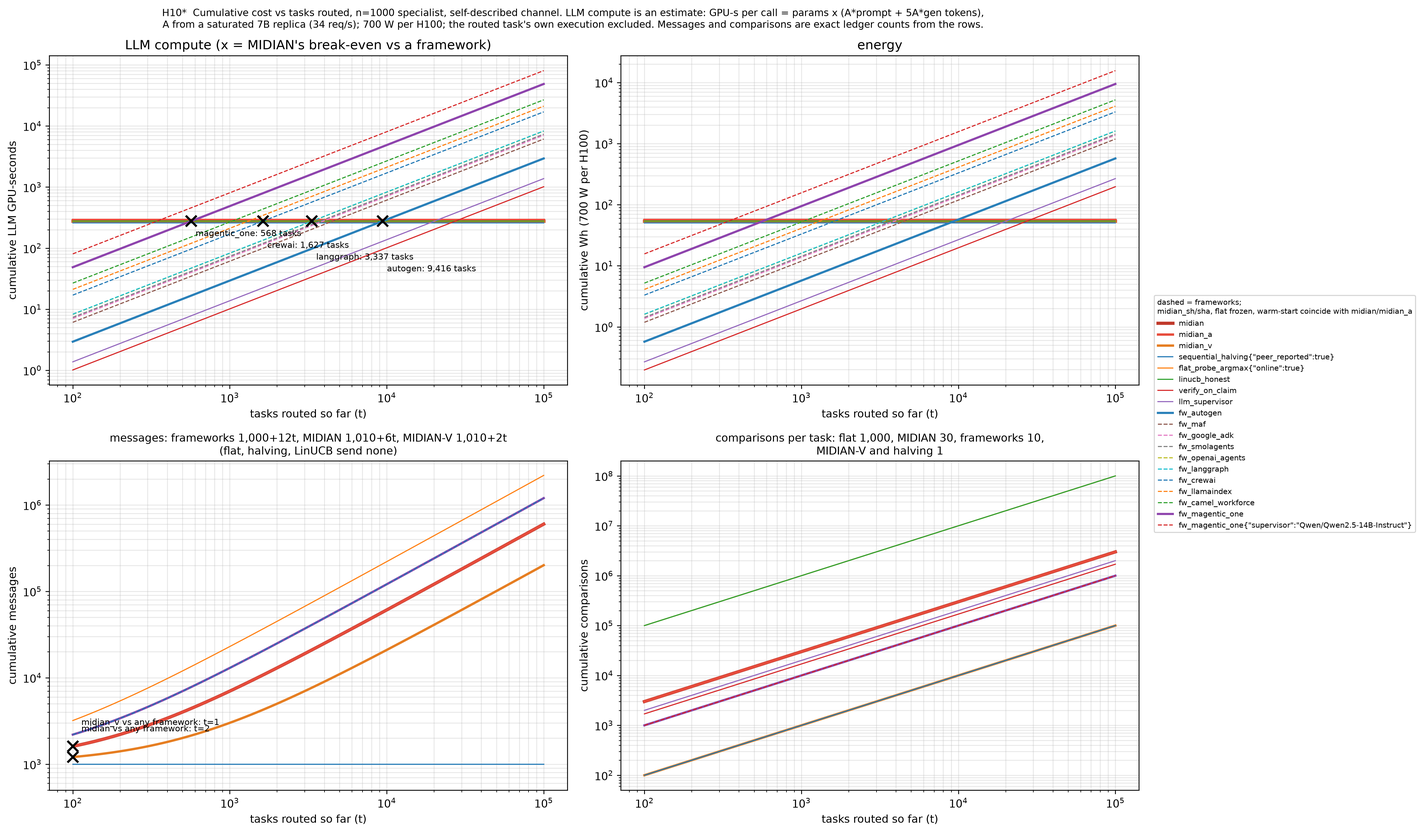
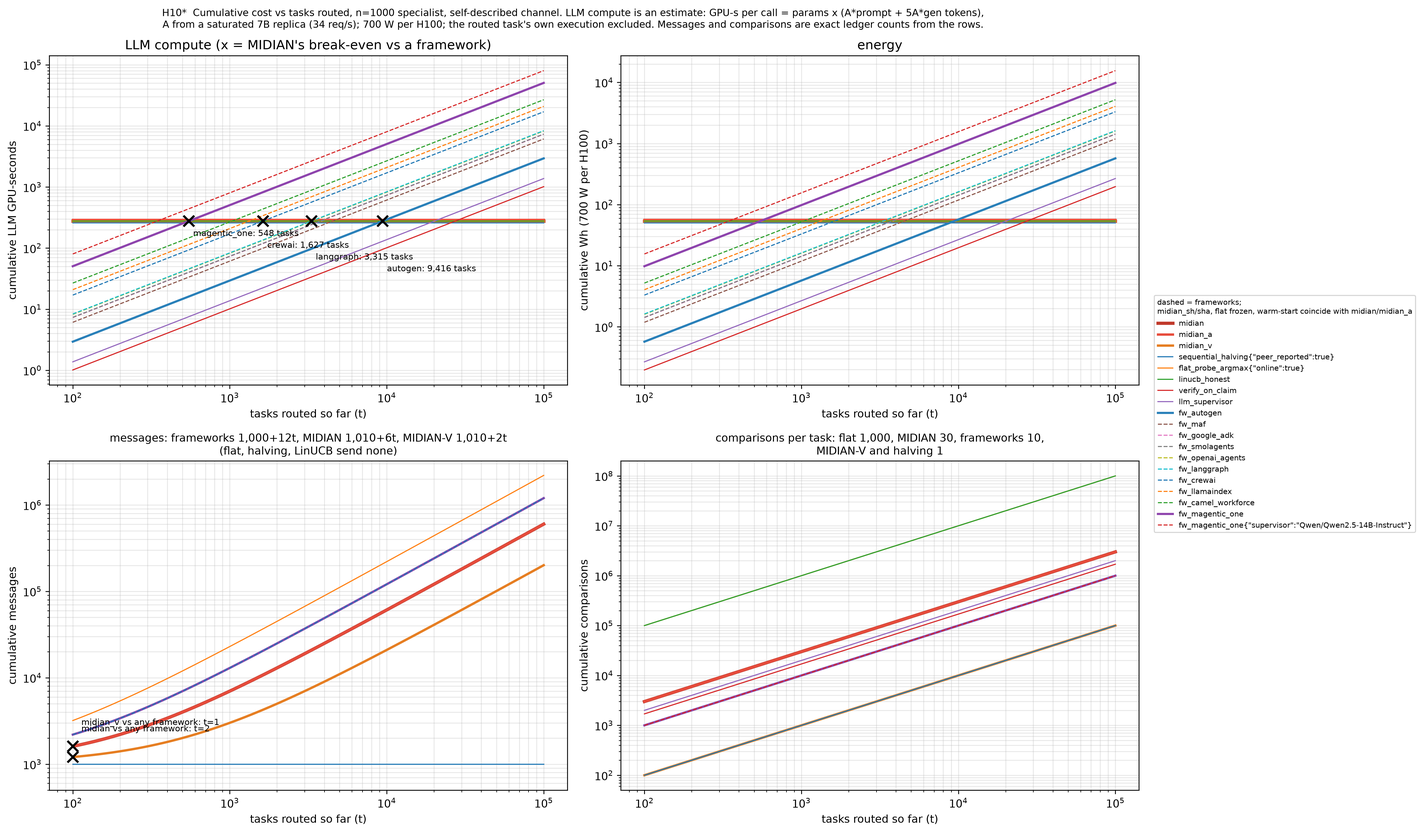
combined cost currencies (joules, critical-path latency): H11, energy section and figure guide updated

diff --git a/scripts/energy.py b/scripts/energy.py
@@ -7,6 +7,7 @@ R = os.environ.get("RTE_DATA", "/n/netscratch/sompolinsky_lab/Lab/rsiegelmann/rt
 REQ_PER_S_7B, SUP_TOK = 34.0, (1900, 65)                          # measured: saturated 1-GPU 7B replica; supervisor prompt/gen tokens
 A = (1 / REQ_PER_S_7B) / (7.0 * (SUP_TOK[0] + 5 * SUP_TOK[1])); B = 5 * A
 WATTS = {"700 W (H100 TDP)": 700, "400 W (typical draw)": 400}
+J_MSG, J_CMP, RTT, T_CMP, PROBE_LAT = 1e-3, 1e-8, 1e-3, 1e-8, 0.3    # J per message, J per comparison, s per hop, s per comparison, s per route-time probe call
 LADDER = yaml.safe_load(open(os.path.dirname(__file__) + "/../configs/models.yaml"))["models"]; P = {m["id"]: m["params_b"] for m in LADDER}
 PROBE_TOK = {"Qwen/Qwen2.5-0.5B-Instruct": (96, 12), "Qwen/Qwen2.5-1.5B-Instruct": (101, 66), "google/gemma-2-2b-it": (115, 15),   # measured per-server lifetime means
              "Qwen/Qwen2.5-3B-Instruct": (294, 86), "Qwen/Qwen2.5-7B-Instruct": (294, 86), "google/gemma-2-9b-it": (158, 33), "Qwen/Qwen2.5-14B-Instruct": (294, 86)}  # 7B/14B: 3B proxy (tool-enabled)
@@ -19,7 +20,7 @@ SUP = call("Qwen/Qwen2.5-7B-Instruct", SUP_TOK)
 def rows(*grids):
     df = pd.concat([pd.DataFrame([json.load(open(f)) for f in glob.glob(f"{R}/{g}/rows.d/*.json")]) for g in grids])
     df = df[(df.declared_source == "self_described") & (df.n == 1000)]; df["m"] = df.method + df.params.str.replace("{}", "")
-    return df.groupby("m")[["build_probes", "probes_per_task", "tasks_per_task", "wall_clock_per_task", "build_messages", "messages_per_task", "build_comparisons", "comparisons_per_task"]].mean()
+    return df.groupby("m")[["build_probes", "probes_per_task", "tasks_per_task", "wall_clock_per_task", "build_messages", "messages_per_task", "build_comparisons", "comparisons_per_task", "hops_per_task"]].mean()
 
 def table(dist="specialist", watts=700):
     c = rows("live_f1_n1000", "variants_f1", "fw_live_n1000"); base = c.loc["fw_autogen", "wall_clock_per_task"]
@@ -32,10 +33,20 @@ def table(dist="specialist", watts=700):
         sup_scale = P["Qwen/Qwen2.5-14B-Instruct"] / 7.0 if "14B" in m else 1.0
         out.append(dict(method=m, build_gpu_s=r.build_probes * probe_cost[dist], per_task_gpu_s=r.probes_per_task * probe_cost[dist] + sup_calls * SUP * sup_scale,
                         exec_gpu_s_per_task=r.tasks_per_task * probe_cost[dist], sup_call_equiv=sup_calls, build_msgs=r.build_messages, msgs_per_task=r.messages_per_task,
-                        build_cmp=r.build_comparisons, cmp_per_task=r.comparisons_per_task))
+                        build_cmp=r.build_comparisons, cmp_per_task=r.comparisons_per_task, sup_latency=(r.wall_clock_per_task if sup_calls else 0.0),
+                        probes_per_task=r.probes_per_task))
     t = pd.DataFrame(out).set_index("method")
     for T in (1_000, 10_000, 100_000): t[f"cum_gpu_s_t{T}"] = t.build_gpu_s + T * t.per_task_gpu_s
     t["cum_Wh_t10000"] = t.cum_gpu_s_t10000 * watts / 3600; t["cum_msgs_t10000"] = t.build_msgs + 10_000 * t.msgs_per_task; t["cum_cmp_t10000"] = t.build_cmp + 10_000 * t.cmp_per_task
+    # (a) one energy currency, joules: LLM call = GPU-s x 700 W; message = 1 RPC ~100 us on a ~10 W core = 1e-3 J (x10 pessimistic column); comparison = 1e-8 J
+    for J_msg, tag in ((J_MSG, ""), (10 * J_MSG, "_pess")):
+        t["build_J" + tag] = t.build_gpu_s * watts + t.build_msgs * J_msg + t.build_cmp * J_CMP
+        t["per_task_J" + tag] = t.per_task_gpu_s * watts + t.msgs_per_task * J_msg + t.cmp_per_task * J_CMP
+        t["J_per_task_t10000" + tag] = t["build_J" + tag] / 10_000 + t["per_task_J" + tag]
+    # (b) critical-path latency per task: sequential message hops at 1 ms RTT (MIDIAN's 2 per level; frameworks 2 + the supervisor call at its
+    #     measured median latency under shared-fleet load; probes at route time ~0.3 s each), comparisons at 10 ns (flat: 1,000 -> 10 us)
+    is_fw = t.index.str.startswith("fw_") | (t.index == "llm_supervisor")
+    t["latency_s"] = np.where(is_fw, 2 * RTT + t.sup_latency, t.msgs_per_task * RTT) + t.cmp_per_task * T_CMP + t.probes_per_task * PROBE_LAT
     return t.sort_values("cum_gpu_s_t10000")
 
 def crossing(t, a, b, build="build_gpu_s", slope="per_task_gpu_s"):
@@ -63,6 +74,16 @@ if __name__ == "__main__":
     md += ["", "MIDIAN's 48,000-probe build by population shape (GPU-s): " + ", ".join(f"{d} {48000 * v:,.0f}" for d, v in probe_cost.items())
            + "; the crossings scale with it (heavy_tail and bimodal cross ~3x sooner).",
            "Reading: against a one-call framework (AutoGen) MIDIAN breaks even after ~9,400 tasks on specialist (~2,900 on heavy_tail), MIDIAN-A after ~9,900; against the multi-call frameworks (CrewAI, LlamaIndex, CAMEL) after 1,000-1,600 tasks; against Magentic-One after ~570 (7B) / ~340 (14B arm). Before the crossing the framework is cheaper; after it, the probe-based methods' cost is flat while every framework's keeps growing linearly."]
+    md += ["", "## Combined currencies (*)", "",
+           f"(a) ENERGY, joules per event: LLM call = GPU-s x 700 W (a 7B supervisor call = {SUP*700:.1f} J; a specialist probe = {probe_cost['specialist']*700:.2f} J); message = one RPC handled in ~100 us on a ~10 W core = {J_MSG:g} J (pessimistic column: {10*J_MSG:g} J); comparison = one float compare = {J_CMP:g} J.",
+           f"(b) LATENCY on the critical path per task: each sequential message hop = {RTT*1e3:.0f} ms RTT (MIDIAN: 2 per tree level = its messages/task; MIDIAN-V 2 ms; frameworks and llm_supervisor: 2 hops + the supervisor call at its measured median latency under shared-fleet load); comparisons {T_CMP*1e9:.0f} ns each (flat's 1,000 = 10 us); a route-time probe call (verify_on_claim) {PROBE_LAT:.1f} s.", "",
+           "| method | J/task at t=10k (build amortised) | J/task, pessimistic messages | of which LLM J/task | messages J/task | comparisons J/task | latency s/task |", "|---|---|---|---|---|---|---|"]
+    for m, r in t.sort_values("J_per_task_t10000").iterrows():
+        md.append(f"| {m} | {r.J_per_task_t10000:,.3f} | {r.J_per_task_t10000_pess:,.3f} | {(r.build_gpu_s/1e4 + r.per_task_gpu_s)*700:,.3f} | {(r.build_msgs/1e4 + r.msgs_per_task)*J_MSG:.4f} | {(r.build_cmp/1e4 + r.cmp_per_task)*J_CMP:.2e} | {r.latency_s:.4f} |")
+    md += ["", "Crossings in joules (tasks after which the probe-based method's cumulative energy falls below the framework's): " + "; ".join(
+           f"{a}: " + ", ".join(f"{b.replace('fw_', '')} {crossing(t, a, b, 'build_J', 'per_task_J'):,.0f}" for b in fws) for a in mids) + ".",
+           "Under any sane weighting the LLM call dominates energy by 3-5 orders of magnitude (20.6 J per supervisor call vs 6e-3 J for MIDIAN's six messages and 3e-7 J for its thirty comparisons per task), so the joule crossings equal the GPU-second crossings to the task; "
+           "messages dominate MIDIAN's latency (6 ms vs 0.3 us of comparisons) while the supervisor call dominates every framework's (0.5-18 s)."]
     open(os.path.dirname(__file__) + "/../RESULTS_energy.md", "w").write("\n".join(md) + "\n")
     T = np.logspace(2, 5, 300); fig, axes = plt.subplots(2, 2, figsize=(15, 11)); axes = axes.ravel()
     show = ["midian", "midian_a", "midian_v", 'sequential_halving{"peer_reported":true}', 'flat_probe_argmax{"online":true}', "linucb_honest", "verify_on_claim", "llm_supervisor"] + fws
@@ -87,3 +108,18 @@ if __name__ == "__main__":
                  "A from a saturated 7B replica (34 req/s); 700 W per H100; the routed task's own execution excluded. Messages and comparisons are exact ledger counts from the rows.", fontsize=9)
     plt.tight_layout(); plt.savefig(os.path.dirname(__file__) + "/../figures/H10_runtime_energy.png", dpi=300, bbox_inches="tight")
     print(t.round(4).to_string()); print({a: {b: round(crossing(t, a, b)) for b in fws} for a in mids})
+    # ---- H11: combined currencies
+    fig2, ax2 = plt.subplots(1, 2, figsize=(15, 6))
+    for m in show:
+        r = t.loc[m]; col, lw = style.get(m, (None, 1.0)); ax2[0].plot(T, r.build_J + T * r.per_task_J, label=m, color=col, lw=lw, ls="-" if not m.startswith("fw_") or m in style else "--")
+    for i, b in enumerate(("fw_magentic_one", "fw_crewai", "fw_autogen")):
+        x = crossing(t, "midian", b, "build_J", "per_task_J"); y = t.loc["midian", "build_J"] + x * t.loc["midian", "per_task_J"]
+        ax2[0].plot([x], [y], "kx", ms=10, mew=2); ax2[0].annotate(f"{b.replace('fw_', '')}: {x:,.0f}", (x, y), textcoords="offset points", xytext=(4, -14 - 11 * i), fontsize=8)
+    ax2[0].set_xscale("log"); ax2[0].set_yscale("log"); ax2[0].set_xlabel("tasks routed so far (t)"); ax2[0].set_ylabel("cumulative joules (LLM + messages + comparisons)"); ax2[0].grid(alpha=.3, which="both")
+    ax2[0].set_title("one energy currency: LLM call = GPU-s x 700 W, message 1e-3 J, comparison 1e-8 J")
+    lat = t.loc[show, "latency_s"].sort_values(); ax2[1].barh(range(len(lat)), lat.values, color=[style.get(m, ("#7f8c8d", 1))[0] or "#7f8c8d" for m in lat.index])
+    ax2[1].set_yticks(range(len(lat))); ax2[1].set_yticklabels(lat.index, fontsize=8); ax2[1].set_xscale("log"); ax2[1].set_xlabel("critical-path latency per task (s)"); ax2[1].grid(axis="x", alpha=.3, which="both")
+    ax2[1].set_title("latency: 1 ms per sequential hop, 10 ns per comparison, supervisor call at measured median")
+    h2, l2 = ax2[0].get_legend_handles_labels(); fig2.legend(h2, l2, loc="center left", bbox_to_anchor=(1.0, 0.5), fontsize=7)
+    fig2.suptitle("H11*  Combined currencies, n=1000 specialist: cumulative joules vs tasks routed (x = MIDIAN's break-even) and per-task critical-path latency", fontsize=10)
+    plt.tight_layout(); fig2.savefig(os.path.dirname(__file__) + "/../figures/H11_joules_latency.png", dpi=300, bbox_inches="tight")

diff --git a/RESULTS_rte_v2.md b/RESULTS_rte_v2.md
@@ -23,7 +23,8 @@ changed; every mechanism added after the first run is a labeled variant.
 | H7 `H7_shortlist_lift.png` | Each framework with its own TF-IDF shortlist vs with MIDIAN-V's verified cohort (r=10, r=5); reference line = MIDIAN-V alone. (Provisional until the verified grids close.) | §1b |
 | H8 `H8_budget_by_channel.png` | Success vs probe budget b ∈ {1, 3, 10}, split by declaration channel (programmatic = upper bound). | §7 |
 | H9 `H9_churn.png` | Success per 100-task block and cumulative probes across churn events (10% / 30% of agents replaced every 200 tasks): MIDIAN's local repair vs halving-rebuild vs halving-stale vs flat online. | §5 |
-| H10 `H10_runtime_energy.png` | Cumulative GPU-seconds and Wh vs tasks routed: probe-based methods start at their build cost and stay flat, frameworks start at zero and grow per task; the crossings are the energy break-even points. Estimate: counts × per-call cost measured on the fleet. | §6b |
+| H11 `H11_joules_latency.png` | Combined currencies: cumulative joules (LLM call 20.6 J, message 1e-3 J, comparison 1e-8 J) with MIDIAN's break-even crossings, and per-task critical-path latency (1 ms per sequential hop + the supervisor call's measured median). | §6b |
+| H10 `H10_runtime_energy.png` | Cumulative GPU-seconds, Wh, messages and comparisons vs tasks routed: probe-based methods start at their build cost and stay flat, frameworks start at zero and grow per task; the crossings are the energy break-even points. Estimate: counts × per-call cost measured on the fleet. | §6b |
 | appendix `A_*.png` | internals_v2 (r × δ × collude × liar, MIDIAN vs MIDIAN-A), learning curve (success − oracle per 100 tasks), framework k-sensitivity, replay mirror, fallback table, UCB/Thompson. | Appendices |
 
 The 2026-09-02 figures A–G (5 seeds, pooled error bars) are kept under `figures/v1/` for the v1 write-up only.
@@ -337,9 +338,9 @@ Supervisor latency (the one wall-clock table; frameworks' calls are never memois
 at n = 1000: AutoGen 0.7 s, CrewAI 0.6, Google ADK 1.0, OpenAI Agents 1.0, LangGraph 1.1, MAF 1.3, smolagents 1.6,
 LlamaIndex 3.1, CAMEL 4.5, Magentic-One 6.8.
 
-## 6b. Runtime and energy (estimate*)
+## 6b. Runtime, energy and combined cost (estimate*)
 
-From `scripts/energy.py` (counts × per-call GPU-seconds measured on the live fleet); cumulative cost vs tasks routed in four currencies, crossings = break-even.
+From `scripts/energy.py` (counts × per-call GPU-seconds measured on the live fleet); cumulative cost vs tasks routed in GPU-s, Wh, messages, comparisons, and two combined currencies (joules, critical-path latency) with stated per-event weights. Figures H10, H11.
 Runtime/energy ESTIMATE (*) per method from LLM-call counts x measured per-call GPU cost.  python scripts/energy.py
 Wall-clock in the rows is not used for probe methods (memo hits). Model: GPU-seconds per call = params_b * (A*prompt_tok + B*gen_tok),
 B = 5A (decode is ~5x prefill per token on H100/vLLM), A calibrated so a 7B supervisor call (1,900 prompt + 65 gen tokens) costs
@@ -368,28 +369,64 @@ CUMULATIVE LLM compute after t routed tasks = build + t x per-task (n=1000 speci
 | midian_a | 291 | 0.0000 | 291 | 291 | 291 | 56.5 | 32.3 | 61,010 (1,010 + 6/task) | 300,000 (0 + 30/task) |
 | fw_autogen | 0 | 0.0294 | 29 | 294 | 2,941 | 57.2 | 32.7 | 121,000 (1,000 + 12/task) | 100,000 (0 + 10/task) |
 | fw_maf | 0 | 0.0611 | 61 | 611 | 6,112 | 118.8 | 67.9 | 121,000 (1,000 + 12/task) | 100,000 (0 + 10/task) |
-| fw_google_adk | 0 | 0.0704 | 70 | 704 | 7,045 | 137.0 | 78.3 | 121,000 (1,000 + 12/task) | 100,000 (0 + 10/task) |
+| fw_google_adk | 0 | 0.0729 | 73 | 729 | 7,286 | 141.7 | 81.0 | 121,000 (1,000 + 12/task) | 100,000 (0 + 10/task) |
 | fw_smolagents | 0 | 0.0736 | 74 | 736 | 7,362 | 143.1 | 81.8 | 121,000 (1,000 + 12/task) | 100,000 (0 + 10/task) |
 | fw_openai_agents | 0 | 0.0824 | 82 | 824 | 8,238 | 160.2 | 91.5 | 121,000 (1,000 + 12/task) | 100,000 (0 + 10/task) |
-| fw_langgraph | 0 | 0.0830 | 83 | 830 | 8,300 | 161.4 | 92.2 | 121,000 (1,000 + 12/task) | 100,000 (0 + 10/task) |
+| fw_langgraph | 0 | 0.0835 | 84 | 835 | 8,354 | 162.4 | 92.8 | 121,000 (1,000 + 12/task) | 100,000 (0 + 10/task) |
 | fw_crewai | 0 | 0.1702 | 170 | 1,702 | 17,025 | 331.0 | 189.2 | 121,000 (1,000 + 12/task) | 100,000 (0 + 10/task) |
-| fw_llamaindex | 0 | 0.2113 | 211 | 2,113 | 21,131 | 410.9 | 234.8 | 121,000 (1,000 + 12/task) | 100,000 (0 + 10/task) |
+| fw_llamaindex | 0 | 0.2088 | 209 | 2,088 | 20,879 | 406.0 | 232.0 | 121,000 (1,000 + 12/task) | 100,000 (0 + 10/task) |
 | fw_camel_workforce | 0 | 0.2678 | 268 | 2,678 | 26,783 | 520.8 | 297.6 | 121,000 (1,000 + 12/task) | 100,000 (0 + 10/task) |
-| fw_magentic_one | 0 | 0.4873 | 487 | 4,873 | 48,733 | 947.6 | 541.5 | 121,000 (1,000 + 12/task) | 100,000 (0 + 10/task) |
-| fw_magentic_one{"supervisor":"Qwen/Qwen2.5-14B-Instruct"} | 0 | 0.8057 | 806 | 8,057 | 80,573 | 1,566.7 | 895.3 | 121,000 (1,000 + 12/task) | 100,000 (0 + 10/task) |
+| fw_magentic_one | 0 | 0.5050 | 505 | 5,050 | 50,499 | 981.9 | 561.1 | 121,000 (1,000 + 12/task) | 100,000 (0 + 10/task) |
+| fw_magentic_one{"supervisor":"Qwen/Qwen2.5-14B-Instruct"} | 0 | 0.8020 | 802 | 8,020 | 80,201 | 1,559.5 | 891.1 | 121,000 (1,000 + 12/task) | 100,000 (0 + 10/task) |
 
 **Crossing points (tasks routed before the probe-based method's cumulative cost drops below the framework's):**
 
 | | autogen | maf | google_adk | smolagents | openai_agents | langgraph | crewai | llamaindex | camel_workforce | magentic_one | magentic_one{"supervisor":"Qwen/Qwen2.5-14B-Instruct"} |
 |---|---|---|---|---|---|---|---|---|---|---|---|
-| midian | 9,416 | 4,531 | 3,931 | 3,762 | 3,362 | 3,337 | 1,627 | 1,311 | 1,034 | 568 | 344 |
-| midian_a | 9,884 | 4,756 | 4,126 | 3,949 | 3,528 | 3,502 | 1,707 | 1,376 | 1,085 | 596 | 361 |
-| midian_v | 9,385 | 4,516 | 3,918 | 3,749 | 3,350 | 3,325 | 1,621 | 1,306 | 1,031 | 566 | 343 |
+| midian | 9,416 | 4,531 | 3,801 | 3,762 | 3,362 | 3,315 | 1,627 | 1,326 | 1,034 | 548 | 345 |
+| midian_a | 9,884 | 4,756 | 3,990 | 3,949 | 3,528 | 3,480 | 1,707 | 1,392 | 1,085 | 576 | 362 |
+| midian_v | 9,385 | 4,516 | 3,788 | 3,749 | 3,350 | 3,304 | 1,621 | 1,322 | 1,031 | 547 | 344 |
 
 In MESSAGES the crossing is immediate: MIDIAN 1,010 + 6t vs a framework 1,000 + 12t crosses at t = 2; MIDIAN-V (1,010 + 2t) at t = 1. In COMPARISONS MIDIAN pays 30 per task vs a framework's 10 (MIDIAN-V 1, halving 1, flat 1,000), so MIDIAN never undercuts a framework on comparisons while MIDIAN-V does from the first task. Per task, MIDIAN's cost is communication (messages and comparisons), not LLM compute: it makes no LLM call at route time.
 
 MIDIAN's 48,000-probe build by population shape (GPU-s): specialist 277, heavy_tail 84, bimodal 98; the crossings scale with it (heavy_tail and bimodal cross ~3x sooner).
 Reading: against a one-call framework (AutoGen) MIDIAN breaks even after ~9,400 tasks on specialist (~2,900 on heavy_tail), MIDIAN-A after ~9,900; against the multi-call frameworks (CrewAI, LlamaIndex, CAMEL) after 1,000-1,600 tasks; against Magentic-One after ~570 (7B) / ~340 (14B arm). Before the crossing the framework is cheaper; after it, the probe-based methods' cost is flat while every framework's keeps growing linearly.
+
+## Combined currencies (*)
+
+(a) ENERGY, joules per event: LLM call = GPU-s x 700 W (a 7B supervisor call = 20.6 J; a specialist probe = 4.04 J); message = one RPC handled in ~100 us on a ~10 W core = 0.001 J (pessimistic column: 0.01 J); comparison = one float compare = 1e-08 J.
+(b) LATENCY on the critical path per task: each sequential message hop = 1 ms RTT (MIDIAN: 2 per tree level = its messages/task; MIDIAN-V 2 ms; frameworks and llm_supervisor: 2 hops + the supervisor call at its measured median latency under shared-fleet load); comparisons 10 ns each (flat's 1,000 = 10 us); a route-time probe call (verify_on_claim) 0.3 s.
+
+| method | J/task at t=10k (build amortised) | J/task, pessimistic messages | of which LLM J/task | messages J/task | comparisons J/task | latency s/task |
+|---|---|---|---|---|---|---|
+| declared_argmax | 0.000 | 0.001 | 0.000 | 0.0001 | 1.00e-05 | 0.0000 |
+| verify_on_claim | 7.093 | 7.094 | 7.093 | 0.0001 | 1.70e-07 | 0.5269 |
+| llm_supervisor | 9.653 | 9.852 | 9.631 | 0.0221 | 2.00e-07 | 0.5218 |
+| sequential_halving | 18.146 | 18.146 | 18.146 | 0.0000 | 1.00e-08 | 0.0000 |
+| sequential_halving{"peer_reported":true} | 18.146 | 18.146 | 18.146 | 0.0000 | 1.00e-08 | 0.0000 |
+| midian_v | 19.324 | 19.343 | 19.322 | 0.0021 | 1.00e-08 | 0.0020 |
+| flat_probe_argmax{"online":true} | 19.386 | 19.386 | 19.386 | 0.0000 | 1.00e-05 | 0.0000 |
+| flat_probe_argmax | 19.386 | 19.386 | 19.386 | 0.0000 | 1.00e-05 | 0.0000 |
+| linucb_honest | 19.386 | 19.386 | 19.386 | 0.0000 | 1.00e-05 | 0.0000 |
+| warm_start_bandit | 19.386 | 19.387 | 19.386 | 0.0001 | 1.00e-05 | 0.0000 |
+| midian | 19.392 | 19.447 | 19.386 | 0.0061 | 3.00e-07 | 0.0060 |
+| midian_sh | 19.392 | 19.447 | 19.386 | 0.0061 | 3.00e-07 | 0.0060 |
+| midian_sha | 20.354 | 20.409 | 20.348 | 0.0061 | 3.00e-07 | 0.0060 |
+| midian_a | 20.354 | 20.409 | 20.348 | 0.0061 | 3.00e-07 | 0.0060 |
+| fw_autogen | 20.600 | 20.709 | 20.588 | 0.0121 | 1.00e-07 | 1.1132 |
+| fw_maf | 42.797 | 42.906 | 42.785 | 0.0121 | 1.00e-07 | 2.3111 |
+| fw_google_adk | 51.016 | 51.125 | 51.004 | 0.0121 | 1.00e-07 | 2.7547 |
+| fw_smolagents | 51.545 | 51.654 | 51.533 | 0.0121 | 1.00e-07 | 2.7832 |
+| fw_openai_agents | 57.682 | 57.790 | 57.669 | 0.0121 | 1.00e-07 | 3.1144 |
+| fw_langgraph | 58.490 | 58.598 | 58.477 | 0.0121 | 1.00e-07 | 3.1580 |
+| fw_crewai | 119.185 | 119.294 | 119.173 | 0.0121 | 1.00e-07 | 6.4338 |
+| fw_llamaindex | 146.168 | 146.277 | 146.156 | 0.0121 | 1.00e-07 | 7.8901 |
+| fw_camel_workforce | 187.491 | 187.600 | 187.479 | 0.0121 | 1.00e-07 | 10.1203 |
+| fw_magentic_one | 353.506 | 353.615 | 353.494 | 0.0121 | 1.00e-07 | 19.0802 |
+| fw_magentic_one{"supervisor":"Qwen/Qwen2.5-14B-Instruct"} | 561.422 | 561.531 | 561.410 | 0.0121 | 1.00e-07 | 15.1517 |
+
+Crossings in joules (tasks after which the probe-based method's cumulative energy falls below the framework's): midian: autogen 9,413, maf 4,530, google_adk 3,801, smolagents 3,761, openai_agents 3,361, langgraph 3,315, crewai 1,627, llamaindex 1,326, camel_workforce 1,034, magentic_one 548, magentic_one{"supervisor":"Qwen/Qwen2.5-14B-Instruct"} 345; midian_a: autogen 9,881, maf 4,755, google_adk 3,989, smolagents 3,948, openai_agents 3,528, langgraph 3,479, crewai 1,707, llamaindex 1,392, camel_workforce 1,085, magentic_one 576, magentic_one{"supervisor":"Qwen/Qwen2.5-14B-Instruct"} 362; midian_v: autogen 9,380, maf 4,515, google_adk 3,788, smolagents 3,749, openai_agents 3,350, langgraph 3,304, crewai 1,621, llamaindex 1,322, camel_workforce 1,031, magentic_one 547, magentic_one{"supervisor":"Qwen/Qwen2.5-14B-Instruct"} 344.
+Under any sane weighting the LLM call dominates energy by 3-5 orders of magnitude (20.6 J per supervisor call vs 6e-3 J for MIDIAN's six messages and 3e-7 J for its thirty comparisons per task), so the joule crossings equal the GPU-second crossings to the task; messages dominate MIDIAN's latency (6 ms vs 0.3 us of comparisons) while the supervisor call dominates every framework's (0.5-18 s).
 
 ## 7. Budget, by channel (H8)
 

diff --git a/RESULTS_energy.md b/RESULTS_energy.md
@@ -28,25 +28,61 @@ CUMULATIVE LLM compute after t routed tasks = build + t x per-task (n=1000 speci
 | midian_a | 291 | 0.0000 | 291 | 291 | 291 | 56.5 | 32.3 | 61,010 (1,010 + 6/task) | 300,000 (0 + 30/task) |
 | fw_autogen | 0 | 0.0294 | 29 | 294 | 2,941 | 57.2 | 32.7 | 121,000 (1,000 + 12/task) | 100,000 (0 + 10/task) |
 | fw_maf | 0 | 0.0611 | 61 | 611 | 6,112 | 118.8 | 67.9 | 121,000 (1,000 + 12/task) | 100,000 (0 + 10/task) |
-| fw_google_adk | 0 | 0.0704 | 70 | 704 | 7,045 | 137.0 | 78.3 | 121,000 (1,000 + 12/task) | 100,000 (0 + 10/task) |
+| fw_google_adk | 0 | 0.0729 | 73 | 729 | 7,286 | 141.7 | 81.0 | 121,000 (1,000 + 12/task) | 100,000 (0 + 10/task) |
 | fw_smolagents | 0 | 0.0736 | 74 | 736 | 7,362 | 143.1 | 81.8 | 121,000 (1,000 + 12/task) | 100,000 (0 + 10/task) |
 | fw_openai_agents | 0 | 0.0824 | 82 | 824 | 8,238 | 160.2 | 91.5 | 121,000 (1,000 + 12/task) | 100,000 (0 + 10/task) |
-| fw_langgraph | 0 | 0.0830 | 83 | 830 | 8,300 | 161.4 | 92.2 | 121,000 (1,000 + 12/task) | 100,000 (0 + 10/task) |
+| fw_langgraph | 0 | 0.0835 | 84 | 835 | 8,354 | 162.4 | 92.8 | 121,000 (1,000 + 12/task) | 100,000 (0 + 10/task) |
 | fw_crewai | 0 | 0.1702 | 170 | 1,702 | 17,025 | 331.0 | 189.2 | 121,000 (1,000 + 12/task) | 100,000 (0 + 10/task) |
-| fw_llamaindex | 0 | 0.2113 | 211 | 2,113 | 21,131 | 410.9 | 234.8 | 121,000 (1,000 + 12/task) | 100,000 (0 + 10/task) |
+| fw_llamaindex | 0 | 0.2088 | 209 | 2,088 | 20,879 | 406.0 | 232.0 | 121,000 (1,000 + 12/task) | 100,000 (0 + 10/task) |
 | fw_camel_workforce | 0 | 0.2678 | 268 | 2,678 | 26,783 | 520.8 | 297.6 | 121,000 (1,000 + 12/task) | 100,000 (0 + 10/task) |
-| fw_magentic_one | 0 | 0.4873 | 487 | 4,873 | 48,733 | 947.6 | 541.5 | 121,000 (1,000 + 12/task) | 100,000 (0 + 10/task) |
-| fw_magentic_one{"supervisor":"Qwen/Qwen2.5-14B-Instruct"} | 0 | 0.8057 | 806 | 8,057 | 80,573 | 1,566.7 | 895.3 | 121,000 (1,000 + 12/task) | 100,000 (0 + 10/task) |
+| fw_magentic_one | 0 | 0.5050 | 505 | 5,050 | 50,499 | 981.9 | 561.1 | 121,000 (1,000 + 12/task) | 100,000 (0 + 10/task) |
+| fw_magentic_one{"supervisor":"Qwen/Qwen2.5-14B-Instruct"} | 0 | 0.8020 | 802 | 8,020 | 80,201 | 1,559.5 | 891.1 | 121,000 (1,000 + 12/task) | 100,000 (0 + 10/task) |
 
 **Crossing points (tasks routed before the probe-based method's cumulative cost drops below the framework's):**
 
 | | autogen | maf | google_adk | smolagents | openai_agents | langgraph | crewai | llamaindex | camel_workforce | magentic_one | magentic_one{"supervisor":"Qwen/Qwen2.5-14B-Instruct"} |
 |---|---|---|---|---|---|---|---|---|---|---|---|
-| midian | 9,416 | 4,531 | 3,931 | 3,762 | 3,362 | 3,337 | 1,627 | 1,311 | 1,034 | 568 | 344 |
-| midian_a | 9,884 | 4,756 | 4,126 | 3,949 | 3,528 | 3,502 | 1,707 | 1,376 | 1,085 | 596 | 361 |
-| midian_v | 9,385 | 4,516 | 3,918 | 3,749 | 3,350 | 3,325 | 1,621 | 1,306 | 1,031 | 566 | 343 |
+| midian | 9,416 | 4,531 | 3,801 | 3,762 | 3,362 | 3,315 | 1,627 | 1,326 | 1,034 | 548 | 345 |
+| midian_a | 9,884 | 4,756 | 3,990 | 3,949 | 3,528 | 3,480 | 1,707 | 1,392 | 1,085 | 576 | 362 |
+| midian_v | 9,385 | 4,516 | 3,788 | 3,749 | 3,350 | 3,304 | 1,621 | 1,322 | 1,031 | 547 | 344 |
 
 In MESSAGES the crossing is immediate: MIDIAN 1,010 + 6t vs a framework 1,000 + 12t crosses at t = 2; MIDIAN-V (1,010 + 2t) at t = 1. In COMPARISONS MIDIAN pays 30 per task vs a framework's 10 (MIDIAN-V 1, halving 1, flat 1,000), so MIDIAN never undercuts a framework on comparisons while MIDIAN-V does from the first task. Per task, MIDIAN's cost is communication (messages and comparisons), not LLM compute: it makes no LLM call at route time.
 
 MIDIAN's 48,000-probe build by population shape (GPU-s): specialist 277, heavy_tail 84, bimodal 98; the crossings scale with it (heavy_tail and bimodal cross ~3x sooner).
 Reading: against a one-call framework (AutoGen) MIDIAN breaks even after ~9,400 tasks on specialist (~2,900 on heavy_tail), MIDIAN-A after ~9,900; against the multi-call frameworks (CrewAI, LlamaIndex, CAMEL) after 1,000-1,600 tasks; against Magentic-One after ~570 (7B) / ~340 (14B arm). Before the crossing the framework is cheaper; after it, the probe-based methods' cost is flat while every framework's keeps growing linearly.
+
+## Combined currencies (*)
+
+(a) ENERGY, joules per event: LLM call = GPU-s x 700 W (a 7B supervisor call = 20.6 J; a specialist probe = 4.04 J); message = one RPC handled in ~100 us on a ~10 W core = 0.001 J (pessimistic column: 0.01 J); comparison = one float compare = 1e-08 J.
+(b) LATENCY on the critical path per task: each sequential message hop = 1 ms RTT (MIDIAN: 2 per tree level = its messages/task; MIDIAN-V 2 ms; frameworks and llm_supervisor: 2 hops + the supervisor call at its measured median latency under shared-fleet load); comparisons 10 ns each (flat's 1,000 = 10 us); a route-time probe call (verify_on_claim) 0.3 s.
+
+| method | J/task at t=10k (build amortised) | J/task, pessimistic messages | of which LLM J/task | messages J/task | comparisons J/task | latency s/task |
+|---|---|---|---|---|---|---|
+| declared_argmax | 0.000 | 0.001 | 0.000 | 0.0001 | 1.00e-05 | 0.0000 |
+| verify_on_claim | 7.093 | 7.094 | 7.093 | 0.0001 | 1.70e-07 | 0.5269 |
+| llm_supervisor | 9.653 | 9.852 | 9.631 | 0.0221 | 2.00e-07 | 0.5218 |
+| sequential_halving | 18.146 | 18.146 | 18.146 | 0.0000 | 1.00e-08 | 0.0000 |
+| sequential_halving{"peer_reported":true} | 18.146 | 18.146 | 18.146 | 0.0000 | 1.00e-08 | 0.0000 |
+| midian_v | 19.324 | 19.343 | 19.322 | 0.0021 | 1.00e-08 | 0.0020 |
+| flat_probe_argmax{"online":true} | 19.386 | 19.386 | 19.386 | 0.0000 | 1.00e-05 | 0.0000 |
+| flat_probe_argmax | 19.386 | 19.386 | 19.386 | 0.0000 | 1.00e-05 | 0.0000 |
+| linucb_honest | 19.386 | 19.386 | 19.386 | 0.0000 | 1.00e-05 | 0.0000 |
+| warm_start_bandit | 19.386 | 19.387 | 19.386 | 0.0001 | 1.00e-05 | 0.0000 |
+| midian | 19.392 | 19.447 | 19.386 | 0.0061 | 3.00e-07 | 0.0060 |
+| midian_sh | 19.392 | 19.447 | 19.386 | 0.0061 | 3.00e-07 | 0.0060 |
+| midian_sha | 20.354 | 20.409 | 20.348 | 0.0061 | 3.00e-07 | 0.0060 |
+| midian_a | 20.354 | 20.409 | 20.348 | 0.0061 | 3.00e-07 | 0.0060 |
+| fw_autogen | 20.600 | 20.709 | 20.588 | 0.0121 | 1.00e-07 | 1.1132 |
+| fw_maf | 42.797 | 42.906 | 42.785 | 0.0121 | 1.00e-07 | 2.3111 |
+| fw_google_adk | 51.016 | 51.125 | 51.004 | 0.0121 | 1.00e-07 | 2.7547 |
+| fw_smolagents | 51.545 | 51.654 | 51.533 | 0.0121 | 1.00e-07 | 2.7832 |
+| fw_openai_agents | 57.682 | 57.790 | 57.669 | 0.0121 | 1.00e-07 | 3.1144 |
+| fw_langgraph | 58.490 | 58.598 | 58.477 | 0.0121 | 1.00e-07 | 3.1580 |
+| fw_crewai | 119.185 | 119.294 | 119.173 | 0.0121 | 1.00e-07 | 6.4338 |
+| fw_llamaindex | 146.168 | 146.277 | 146.156 | 0.0121 | 1.00e-07 | 7.8901 |
+| fw_camel_workforce | 187.491 | 187.600 | 187.479 | 0.0121 | 1.00e-07 | 10.1203 |
+| fw_magentic_one | 353.506 | 353.615 | 353.494 | 0.0121 | 1.00e-07 | 19.0802 |
+| fw_magentic_one{"supervisor":"Qwen/Qwen2.5-14B-Instruct"} | 561.422 | 561.531 | 561.410 | 0.0121 | 1.00e-07 | 15.1517 |
+
+Crossings in joules (tasks after which the probe-based method's cumulative energy falls below the framework's): midian: autogen 9,413, maf 4,530, google_adk 3,801, smolagents 3,761, openai_agents 3,361, langgraph 3,315, crewai 1,627, llamaindex 1,326, camel_workforce 1,034, magentic_one 548, magentic_one{"supervisor":"Qwen/Qwen2.5-14B-Instruct"} 345; midian_a: autogen 9,881, maf 4,755, google_adk 3,989, smolagents 3,948, openai_agents 3,528, langgraph 3,479, crewai 1,707, llamaindex 1,392, camel_workforce 1,085, magentic_one 576, magentic_one{"supervisor":"Qwen/Qwen2.5-14B-Instruct"} 362; midian_v: autogen 9,380, maf 4,515, google_adk 3,788, smolagents 3,749, openai_agents 3,350, langgraph 3,304, crewai 1,621, llamaindex 1,322, camel_workforce 1,031, magentic_one 547, magentic_one{"supervisor":"Qwen/Qwen2.5-14B-Instruct"} 344.
+Under any sane weighting the LLM call dominates energy by 3-5 orders of magnitude (20.6 J per supervisor call vs 6e-3 J for MIDIAN's six messages and 3e-7 J for its thirty comparisons per task), so the joule crossings equal the GPU-second crossings to the task; messages dominate MIDIAN's latency (6 ms vs 0.3 us of comparisons) while the supervisor call dominates every framework's (0.5-18 s).
